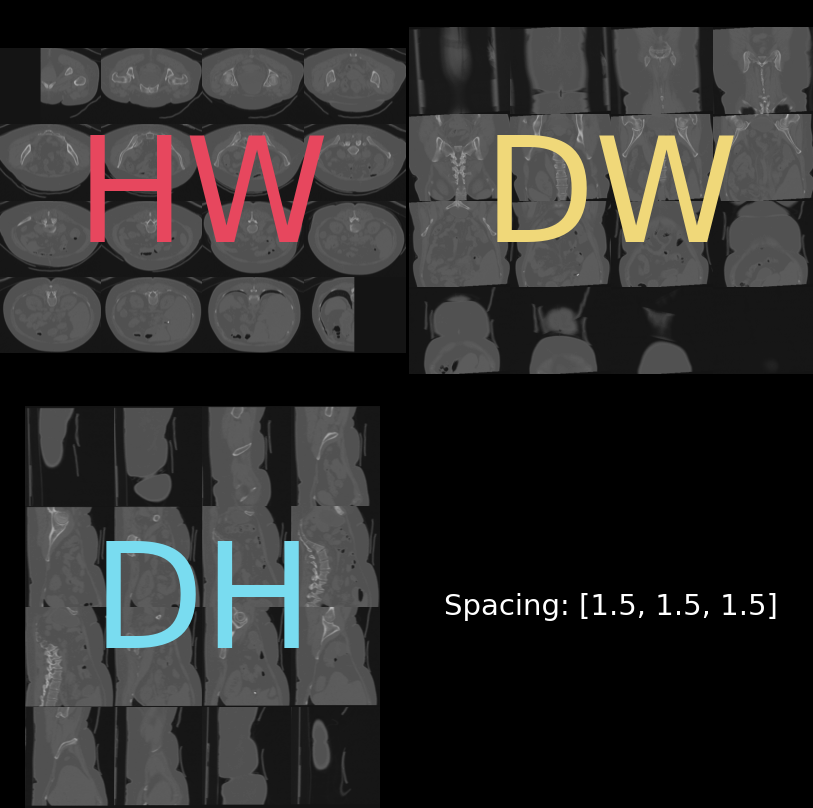
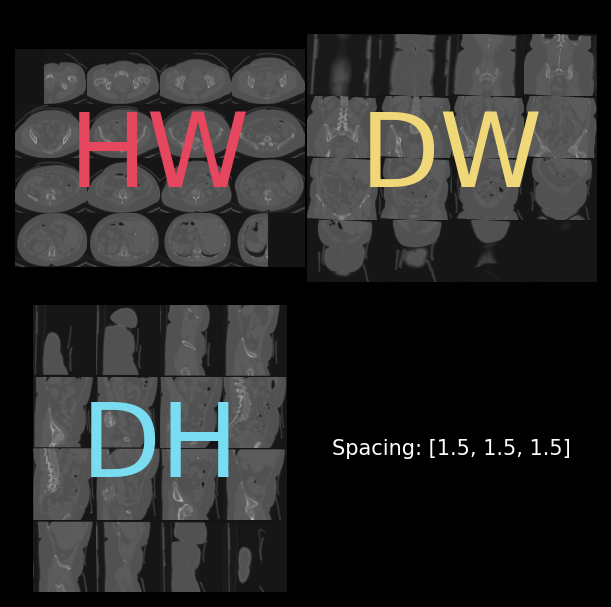
Fix visualization of sample images and improve setting env vars in notebook

Changed region(s): [[0.0, 0.0297, 1.0, 0.4745], [0.0311, 0.5041, 0.4664, 1.0], [0.5286, 0.7117, 0.964, 0.771]]

diff --git a/dg_tta/utils.py b/dg_tta/utils.py
@@ -20,12 +20,21 @@ def get_internal_augmentation_enabled():
 
 def check_dga_root_is_set(soft_check=False):
     prompt = "Please define an existing root directory for DG-TTA by setting DG_TTA_ROOT."
-    check = Path(
-        os.environ.get("DG_TTA_ROOT", "_")
-    ).is_dir()
+    set_path = os.environ.get("DG_TTA_ROOT", "_")
+    check = Path(set_path).is_dir()
 
     if soft_check and not check:
         print(prompt)
         return
 
     assert check, prompt
+
+
+def set_environ_vars_from_paths_sh(sh_path):
+    with open(sh_path, "r") as f:
+        paths = f.readlines()
+    vars = [p.replace('export', '').split('=') for p in paths]
+    vars = [(v[0].strip(), v[1].strip().replace(r'"', r'').replace(r"'", r'')) for v in vars]
+
+    for var, path in vars:
+        os.environ[var] = path

diff --git a/dg_tta/tta/ipynb_utils.py b/dg_tta/tta/ipynb_utils.py
@@ -1,3 +1,4 @@
+import os
 import json
 import matplotlib
 import matplotlib.pyplot as plt
@@ -101,7 +102,7 @@ def show_image_overview(img, sitk_stuff, fig_inch_size=5.0):
         grid_axes = ImageGrid(fig, 221 + idx, nrows_ncols=(4, 4), axes_pad=0.0)
 
         for ax, slc in zip(grid_axes, slices):
-            ax.imshow(slc, cmap="gray", vmin=vmin, vmax=vmax)
+            ax.imshow(slc.flip(0), cmap="gray", vmin=vmin, vmax=vmax)
             ax.set_aspect(get_spacing_ratio(sitk_stuff, idx))
 
         for ax in grid_axes:
